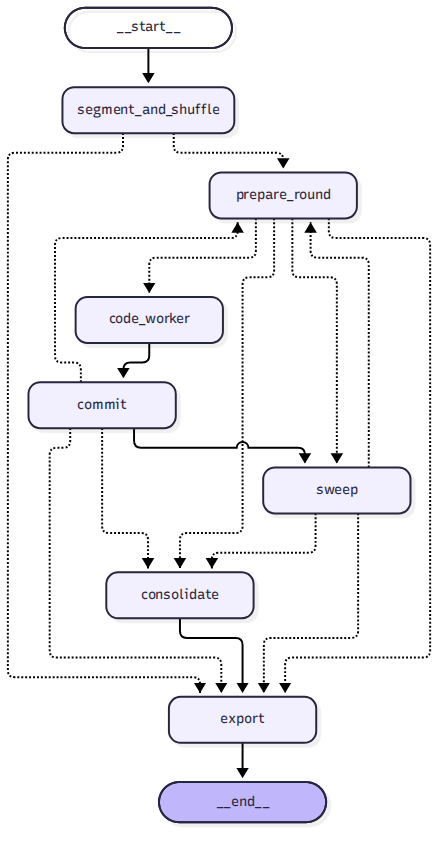
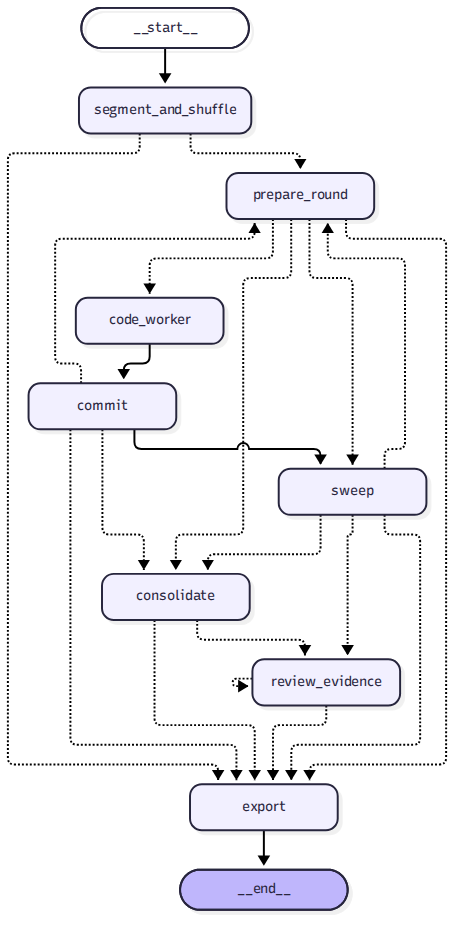
Regenerate the open_code diagram after the review loop
Final consolidation now routes through a bounded review_evidence loop
instead of an unconditional edge to export. The README block is drawn
again from the compiled graph.

Changed region(s): [[0.0, 0.0, 0.9327, 0.9835], [0.9327, 0.2459, 0.991, 0.8298], [0.4664, 0.3995, 0.4955, 0.4303]]

diff --git a/tests/test_readme_graph.py b/tests/test_readme_graph.py
@@ -20,6 +20,9 @@ def _render_graph():
 def test_readme_diagram_matches_compiled_graph():
     render = _render_graph()
     expected = render.diagram_mermaid()
+    assert "consolidate -.-> review_evidence;" in expected
+    assert "review_evidence -.-> review_evidence;" in expected
+    assert "consolidate --> export;" not in expected
     readme = render.README_PATH.read_text(encoding="utf-8")
     assert render.readme_mermaid(readme) == expected
     assert render.main(["--check"]) == 0

diff --git a/README.md b/README.md
@@ -23,6 +23,7 @@ graph TD;
 	commit(commit)
 	sweep(sweep)
 	consolidate(consolidate)
+	review_evidence(review_evidence)
 	export(export)
 	__end__([<p>__end__</p>]):::last
 	__start__ --> segment_and_shuffle;
@@ -31,24 +32,28 @@ graph TD;
 	commit -.-> export;
 	commit -.-> prepare_round;
 	commit -.-> sweep;
-	consolidate --> export;
+	consolidate -.-> export;
+	consolidate -.-> review_evidence;
 	prepare_round -.-> code_worker;
 	prepare_round -.-> consolidate;
 	prepare_round -.-> export;
 	prepare_round -.-> sweep;
+	review_evidence -.-> export;
 	segment_and_shuffle -.-> export;
 	segment_and_shuffle -.-> prepare_round;
 	sweep -.-> consolidate;
 	sweep -.-> export;
 	sweep -.-> prepare_round;
+	sweep -.-> review_evidence;
 	export --> __end__;
+	review_evidence -.-> review_evidence;
 	classDef default fill:#f2f0ff,line-height:1.2
 	classDef first fill-opacity:0
 	classDef last fill:#bfb6fc
 ```
 <!-- graph:open_code:end -->
 
-`segment_and_shuffle` orders the corpus, or goes straight to `export` when there is nothing to code. Each round freezes a snapshot in `prepare_round`, fans out `code_worker` with `Send`, and `commit` is the only writer. Dotted arrows are conditional: a round returns to `prepare_round` until a sweep is due, a sweep returns to `prepare_round` while passages remain, and after the last passage `consolidate` reads the codebook once more when at least two codes exist, then `export` writes the artifacts (`commit` and `prepare_round` also declare an edge to `consolidate`, which the current routers do not take). Document mode (the default) keeps reading order inside a document so later passages see codes committed earlier; wave mode may mix documents in one snapshot; `parallel_documents=True` keeps a codebook per document until a sweep; `pipeline=True` (the default) overlaps the next round with that sweep when more than one request can be in flight, and `strict_sequential_settings()` is this same graph with one passage in flight and the pipeline off.
+`segment_and_shuffle` orders the corpus, or goes straight to `export` when there is nothing to code. Each round freezes a snapshot in `prepare_round`, fans out `code_worker` with `Send`, and `commit` is the only writer. Dotted arrows are conditional: a round returns to `prepare_round` until a sweep is due, a sweep returns to `prepare_round` while passages remain, and when the queue is empty `consolidate` reads the codebook once more if at least two codes are still unconsolidated, or the run goes into `review_evidence`, which loops while a code still needs review and the final-review call and token allowances remain, and `export` runs when that review is done, the allowance is spent, or nothing needed review. Document mode (the default) keeps reading order inside a document so later passages see codes committed earlier; wave mode may mix documents in one snapshot; `parallel_documents=True` keeps a codebook per document until a sweep; `pipeline=True` (the default) overlaps the next round with that sweep when more than one request can be in flight, and `strict_sequential_settings()` is this same graph with one passage in flight and the pipeline off.
 
 A PNG of this drawing is [docs/open_code_graph.png](docs/open_code_graph.png). `python scripts/render_graph.py` rewrites the block from the compiled graph.
 
